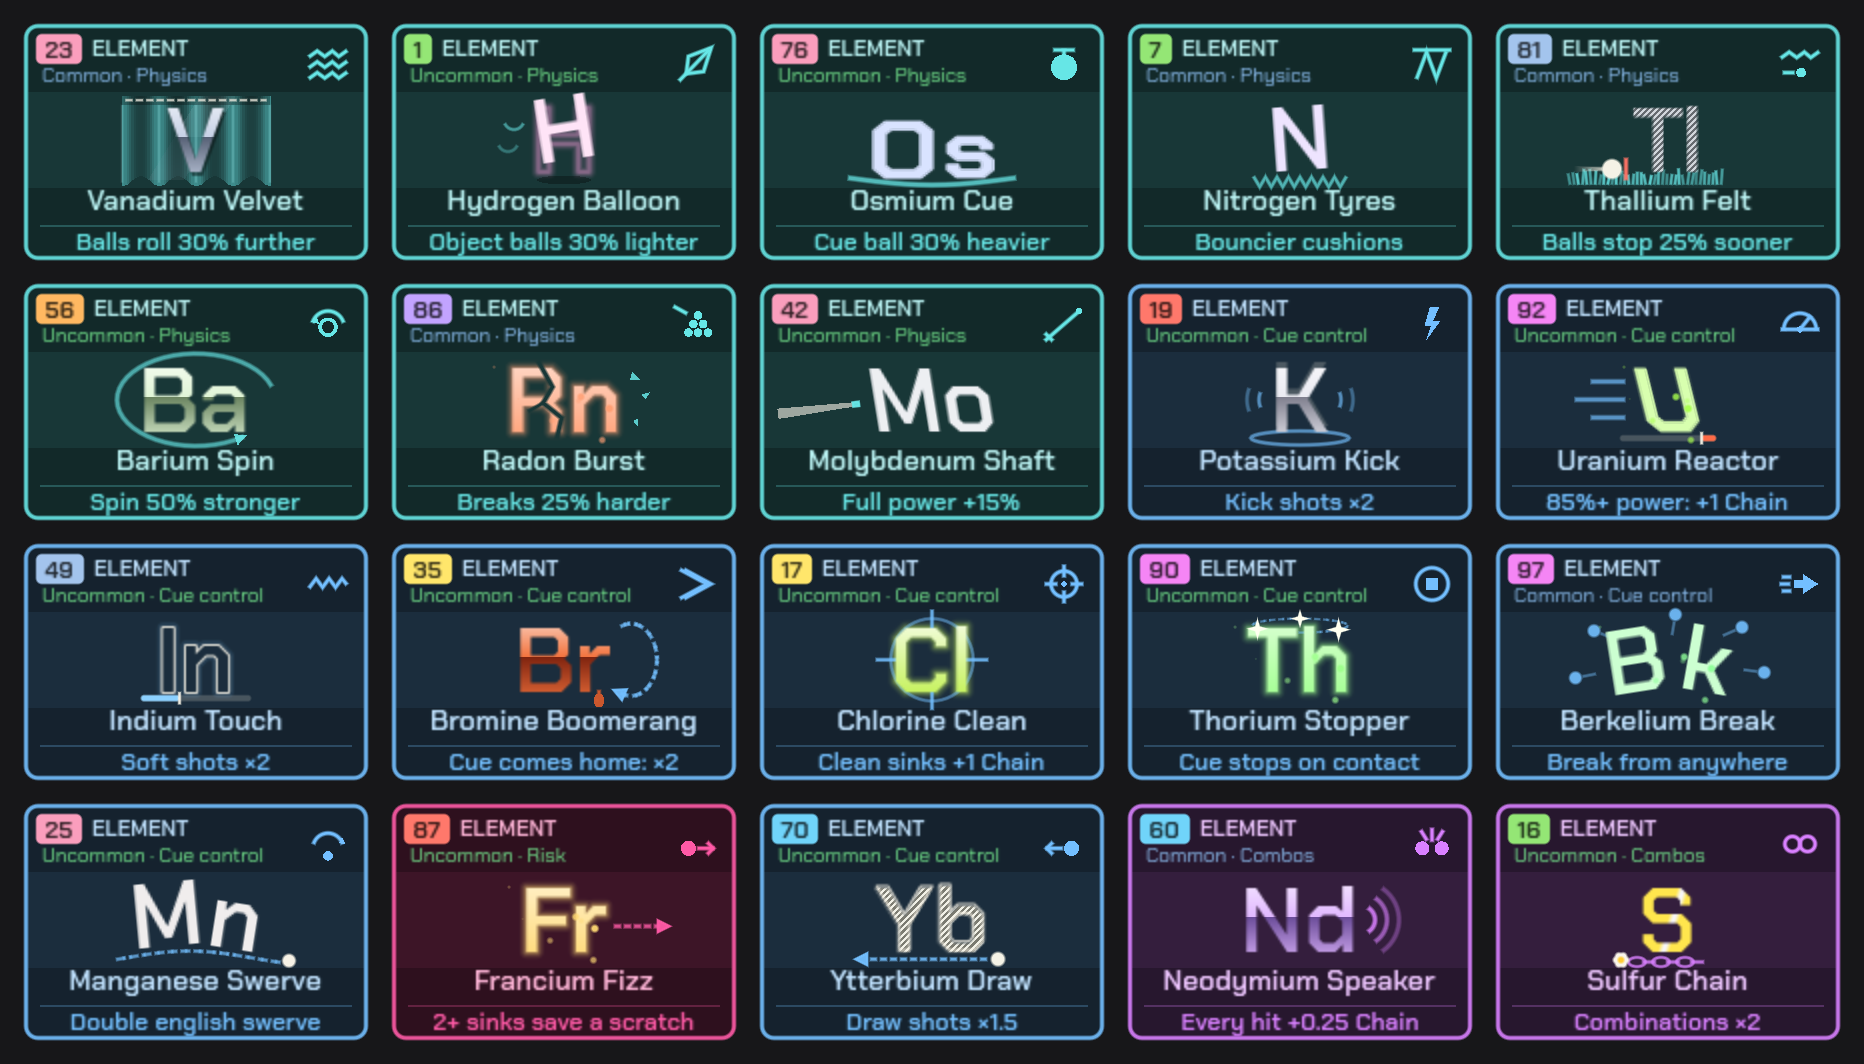
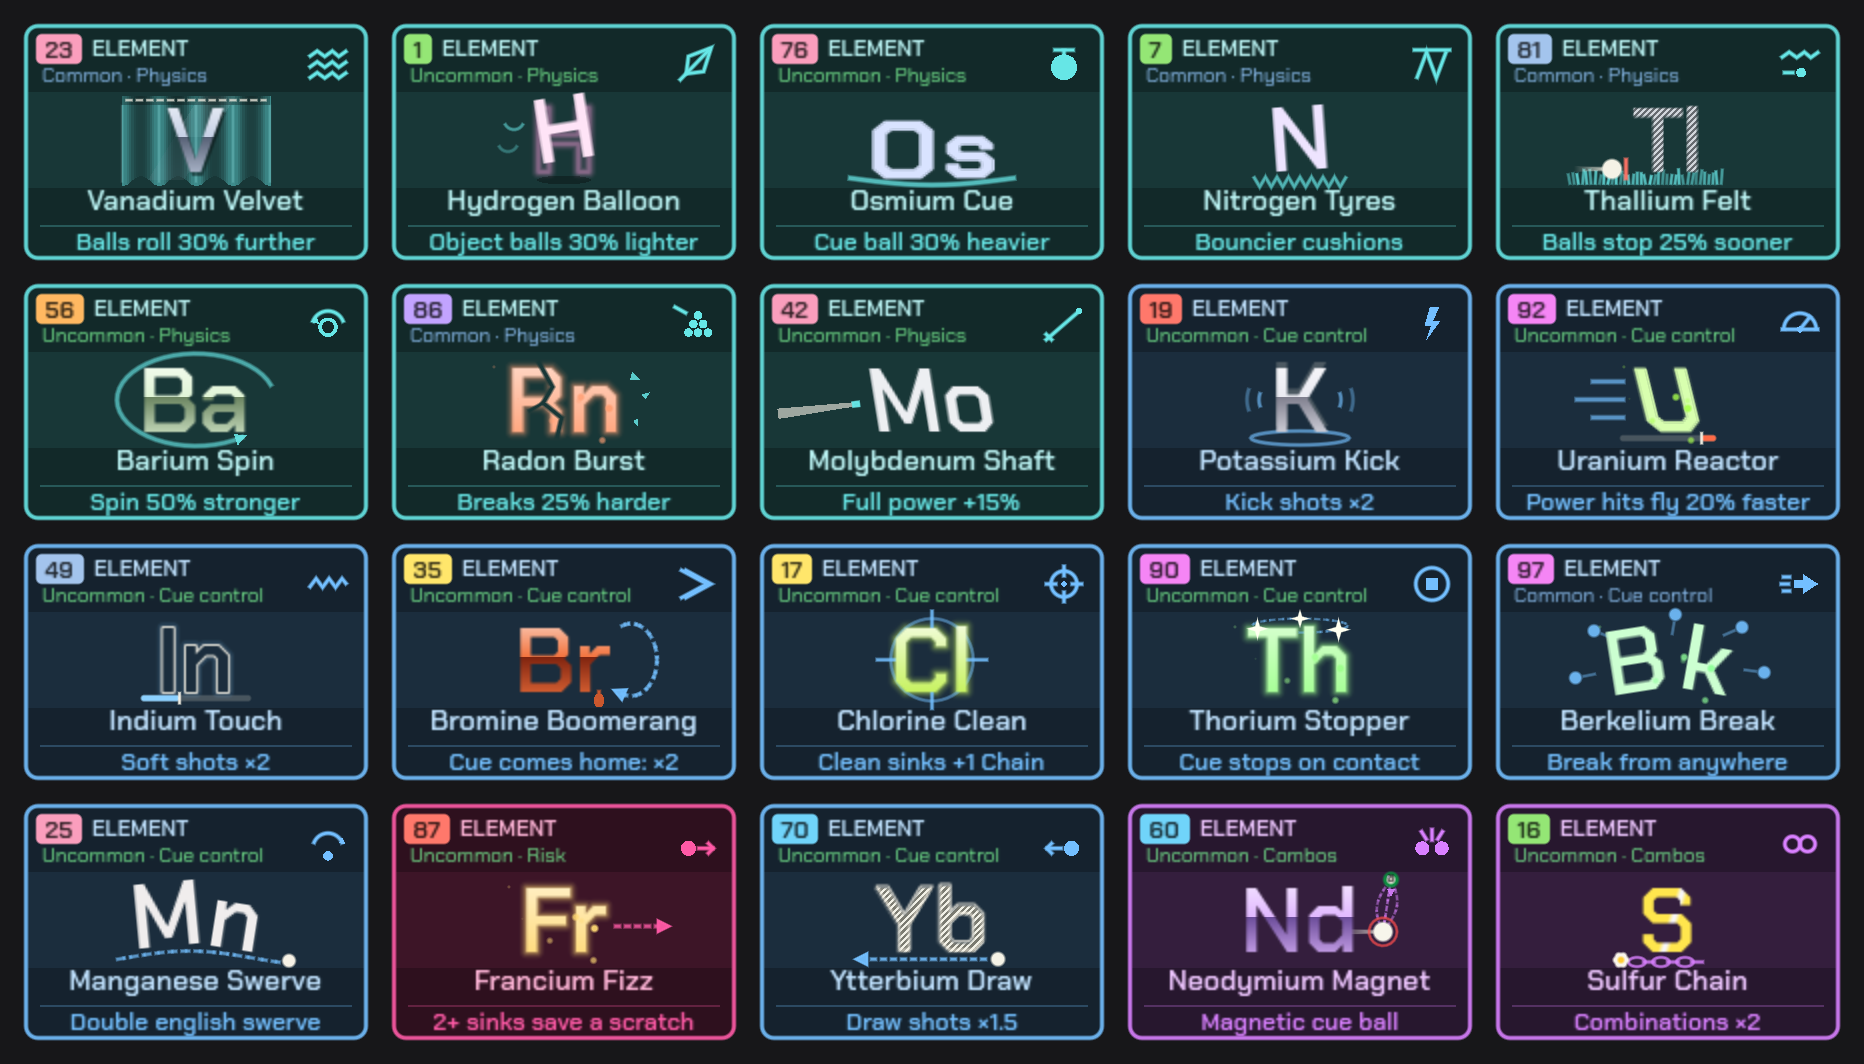
Four more physics Elements: Neodymium Magnet, Lithium Cell, Uranium Reactor, Polonium Halo
- Neodymium Magnet (was Speaker): the rolling cue ball tugs nearby balls
  (PoolSim.cue_magnet), instead of +0.25 Chain a hit.
- Lithium Cell: balls 1-3 lose no speed off cushions, instead of +45.
- Uranium Reactor: at 85%+ power the first ball struck leaves 20% faster
  (PoolSim.first_boost, also in the shot prediction), instead of +1 Chain.
- Polonium Halo: pockets also pull the 8 in when it is the last ball.
- Tests for each; docs/ELEMENTS_REWORK.md lists every change.

Changed region(s): [[0.6223, 0.8374, 0.7779, 0.9925], [0.6223, 0.7754, 0.7157, 0.8374], [0.809, 0.4652, 0.9646, 0.4962]]

diff --git a/docs/ELEMENTS_REWORK.md b/docs/ELEMENTS_REWORK.md
@@ -2,7 +2,7 @@
 
 Every Element now has a two-word name, the element and a noun, such as **Hydrogen Balloon** or **Lead Anchor**. The tile still shows the real symbol (H, Pb) and the atomic number. Each tile also has a short description of what the card does across its bottom row, such as "Object balls 30% lighter".
 
-Eleven Elements were **reworked** to change the physics, or to trigger on a pause, a scratch or the break, instead of adding points. They are marked **Reworked** below, and the full list of changes is under [What changed in the game](#what-changed-in-the-game). The [ideas section](#more-physics-ideas-not-built) lists further reworks that need new simulation features.
+Fourteen Elements were **reworked**, and one gained a physical effect, to change the physics, or to trigger on a pause, a scratch or the break, instead of adding points. They are marked **Reworked** below, and the full list of changes is under [What changed in the game](#what-changed-in-the-game). The [ideas section](#more-physics-ideas-not-built) lists further reworks that need new simulation features.
 
 ## All 100
 
@@ -10,7 +10,7 @@ Eleven Elements were **reworked** to change the physics, or to trigger on a paus
 |---|---|---|---|
 | 1 | Hydrogen Balloon | `featherweight` | **Reworked.** Object balls are 30% lighter (was 25%), so they float further when struck. Now Hydrogen, swapped with Beryllium |
 | 2 | Helium Fusion | `fusion` | A second ball into the same pocket in one shot scores ×3 |
-| 3 | Lithium Cell | `lowball` | Balls 1, 2 and 3 are worth +45 |
+| 3 | Lithium Cell | `lowball` | **Reworked.** Balls 1, 2 and 3 are charged: they lose no speed off cushions. Was balls 1–3 +45 |
 | 4 | Beryllium Avalanche | `catalyst` | Every ball you sink makes all balls worth +0.75 for the rest of the run. Now Beryllium, swapped with Hydrogen |
 | 5 | Boron Cluster | `multi` | Every ball after the first in a shot adds +1 Chain |
 | 6 | Carbon Core | `eight` | The 8 costs nothing, scores like any ball and pays $3 |
@@ -67,7 +67,7 @@ Eleven Elements were **reworked** to change the physics, or to trigger on a paus
 | 57 | Lanthanum Lantern | `comeback` | On your last Chalk, every sink ×2 |
 | 58 | Cerium Flint | `thrift` | Clear a table with 2+ Chalk left: +$5 |
 | 59 | Praseodymium Twin | `rotation` | The lowest ball scores as the highest |
-| 60 | Neodymium Speaker | `elastic` | Every ball-to-ball hit adds +0.25 Chain |
+| 60 | Neodymium Magnet | `elastic` | **Reworked.** The cue ball is magnetic: as it rolls past, it tugs nearby balls towards it. Was +0.25 Chain a hit, and named Neodymium Speaker |
 | 61 | Promethium Prime | `prime` | Prime balls score ×2 |
 | 62 | Samarium Simmer | `entropy` | Below Heat 3, +1 Chain |
 | 63 | Europium Double | `echo` | The first sink of every shot counts twice |
@@ -91,7 +91,7 @@ Eleven Elements were **reworked** to change the physics, or to trigger on a paus
 | 81 | Thallium Felt | `slowcloth` | Balls stop 25% sooner |
 | 82 | Lead Anchor | `laststripe` | **Reworked.** The 8 weighs 300% and rattles out of the pockets until it is the last ball, so it can't go in early. Was the last stripe ×5 |
 | 83 | Bismuth Crystal | `lastsolid` | The last solid scores ×8 |
-| 84 | Polonium Halo | `lastcall` | A last-ball 8 scores ×5 and pays $5 |
+| 84 | Polonium Halo | `lastcall` | **Added to.** When the 8 is the last ball, the pockets pull it in; sinking it still scores ×5 and pays $5 |
 | 85 | Astatine Edge | `glasscannon` | Every sink ×2, but misses cost 2 Chalk |
 | 86 | Radon Burst | `bigbreak` | Breaks hit 25% harder |
 | 87 | Francium Fizz | `followthru` | **Reworked.** Scratch while sinking 2+ balls and the shot still scores, with no Chalk lost. Was follow shots +0.5 Chain |
@@ -99,7 +99,7 @@ Eleven Elements were **reworked** to change the physics, or to trigger on a paus
 | 89 | Actinium Ray | `highball` | Balls 13–15 score ×2.5 |
 | 90 | Thorium Stopper | `stun` | The cue ball loses 60% of its speed at its first hit |
 | 91 | Protactinium Pack | `packrat` | +1 Catalyst slot |
-| 92 | Uranium Reactor | `power` | Shots at 85%+ power start with +1 Chain |
+| 92 | Uranium Reactor | `power` | **Reworked.** At 85%+ power, the first ball the cue ball hits flies off 20% faster. Was +1 Chain at 85%+ |
 | 93 | Neptunium Tide | `overflow` | Points over the target carry over (up to 25%) |
 | 94 | Plutonium Pit | `trouble` | An early 8 gives +3 Heat |
 | 95 | Americium Beacon | `afterimage` | Impulse and Superposition add +1 Chain |
@@ -124,6 +124,10 @@ The changes to rules, rarity, cost or family, all in `src/game/catalog.gd` unles
 - **Xenon Flash** (`stillness`): once a table, the first pause speeds every rolling ball up by 30%, with a banner. It no longer adds Chain on each pause.
 - **Francium Fizz** (`followthru`): a scratch with 2+ other balls sunk still scores and costs no Chalk. It no longer pays for follow shots. Its family changed from Cue control to Risk, its rarity from Common to Uncommon, and its cost from $5 to $6.
 - **Berkelium Break** (`afterburner`): the break, and a scratch on the break, let you place the cue ball anywhere, not just behind the line. It no longer adds +3 Chain on the break.
+- **Neodymium Magnet** (`elastic`): was Neodymium Speaker. The rolling cue ball tugs nearby object balls towards it (`PoolSim.cue_magnet`). It no longer adds Chain on hits. Its rarity changed from Common to Uncommon and its cost from $4 to $6.
+- **Lithium Cell** (`lowball`): balls 1–3 lose no speed off cushions. They are no longer worth +45.
+- **Uranium Reactor** (`power`): at 85%+ power, the first ball struck leaves 20% faster (`PoolSim.first_boost`, set when the shot is struck, and in the prediction too). It no longer adds +1 Chain.
+- **Polonium Halo** (`lastcall`): keeps its ×5 and $5, and now the pockets also pull the 8 in when it is the last ball.
 - **Weights are shown as percentages** everywhere: Lead Anchor 300%, Mass Shift 400%, Leaded and the Iron ball 200%, Hollow 50%, the Feather ball 25%.
 - **Silver Tongue** moved from The 8-ball family to Economy. This keeps eight Elements in the 8-ball family now that Lead Anchor has joined it.
 - **The simulation** (`src/sim/pool_sim.gd`) has two new settings:
@@ -147,15 +151,10 @@ Each idea below needs something new in the simulation, so none of them are built
 
 | Element | Idea | Needs |
 |---|---|---|
-| Neodymium Speaker | Balls cling together for a moment after they touch, so clusters move as one | Ball-to-ball attraction |
 | Fluorine Flare | Odd balls push each other apart before they touch | A short-range repulsion between chosen balls |
 | Mercury Messenger | A slick puddle on the cloth where balls lose no speed | Friction zones (also useful for Snell's Law) |
 | Sodium Cushion | Soft cushions: balls come off 20% slower and settle by the rail | Per-cushion liveliness, as Hooke's Law already does for one segment |
 | Xenon Flash | Pausing freezes every object ball for half a second | A timed freeze when a shot is resumed |
-| Iron Fist | The cue ball is magnetic and tugs the first ball it passes | Attraction to the cue ball only |
-| Lithium Cell | Balls 1–3 are charged: they keep their speed off the first cushion | Per-ball cushion liveliness by number (the `bounce` array already exists) |
-| Uranium Reactor | At 85%+ power, the cue ball keeps 20% more speed after its first hit | The opposite of Thorium's `cue_damp` |
-| Polonium Halo | When the 8 is the last ball, the pockets pull it in | Pull on one ball, depending on the table state |
 | Krypton Tally | The guide line also shows the 8's path after any hit | A guide-line feature, not physics |
 | Helium Fusion | Two balls that meet in a pocket's jaws both drop | Pocket capture by contact |
 | Silicon Wafer | Solids slide flat and ignore spin passed on by the cue ball | Per-ball spin transfer |
